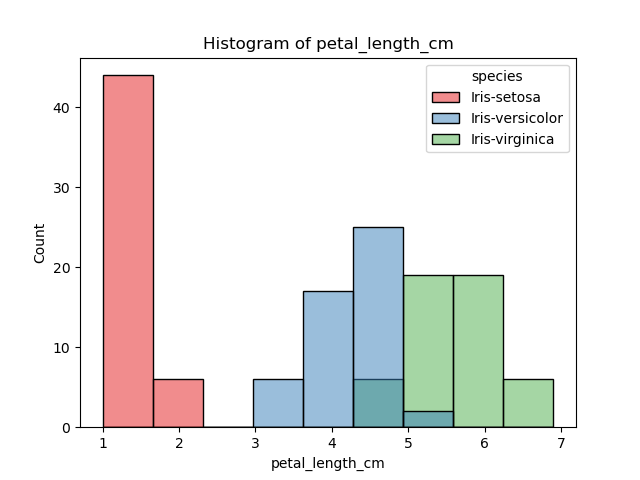
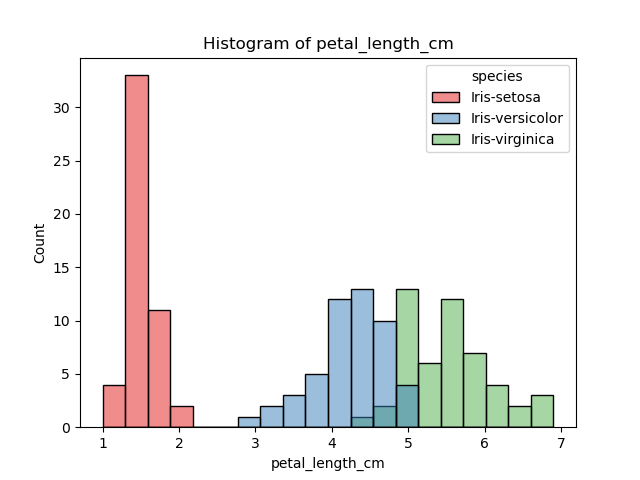
improving the appearance of the histograms

diff --git a/analysis.py b/analysis.py
@@ -50,15 +50,15 @@ print(f'Summary statistics for Iris virginica are: \n{virginica.describe()}')
 print()
 
 # Save a histogram of each variable to png files
-
 for col in iris:
-    sns.histplot(x = col, data = iris, hue = 'species')
+    sns.set_palette("Set1")
+    sns.histplot(x = col, data = iris, hue = 'species', bins = 20)
     plt.title(f'Histogram of {col}')
     plt.savefig(f'{col}.png')
     plt.show()
 
 # Outputs a scatter plot of each pair of variables
 sns.pairplot(iris, hue = 'species')
-fig.suptitle('Scatter plot of each variable in the dataset')
+#fig.suptitle('Scatter plot of each variable in the dataset')
 plt.savefig('Scatter_plot.png')
 #plt.show()
